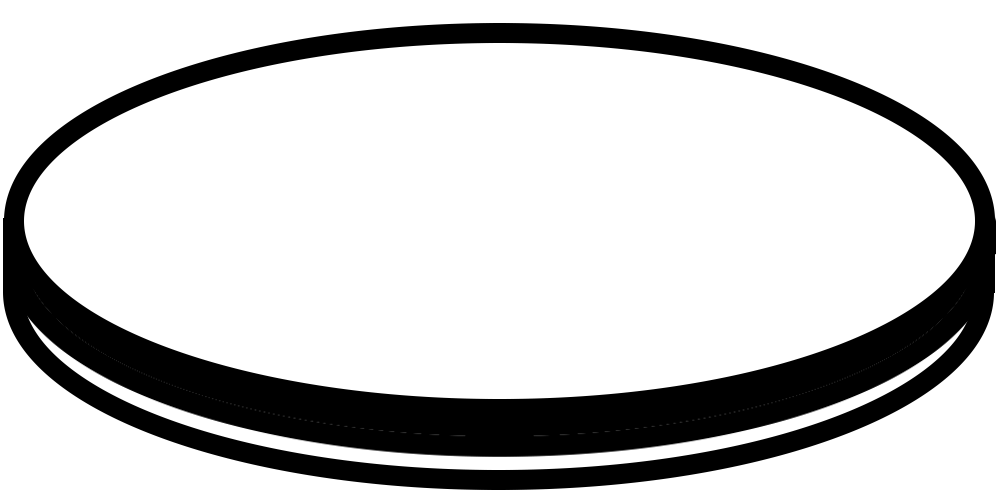
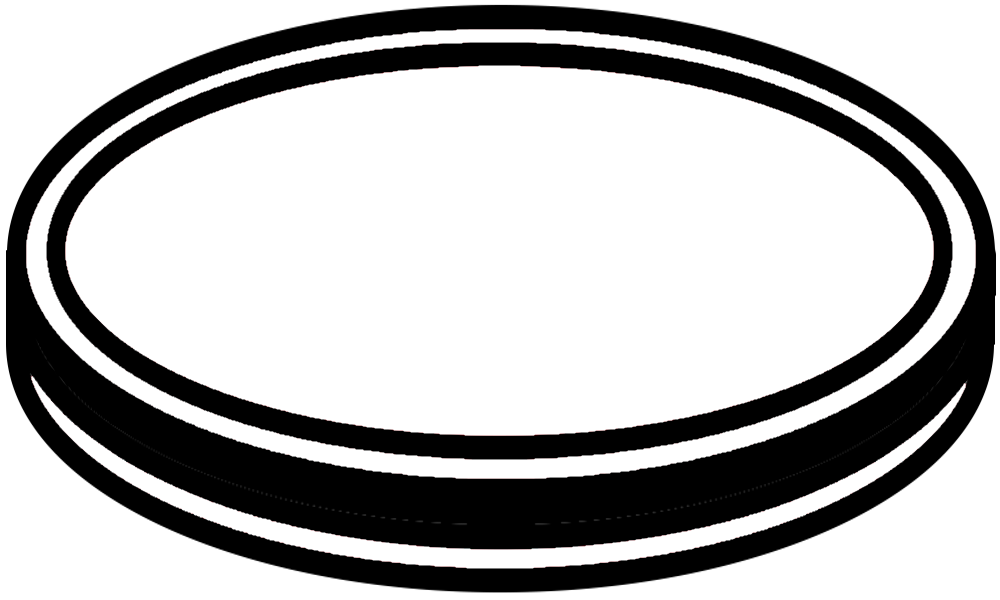
fixed an infinite loop error, but now sometimes the chips just disappear after dragging

diff --git a/src/main/java/com/example/blackjack2/Chip.java b/src/main/java/com/example/blackjack2/Chip.java
@@ -10,8 +10,8 @@ public class Chip {
     public Chip(int id, int value, int x, int y, Chip bottomChip) {
         this.id = id;
         this.value = value;
-        this.width = 60;
-        this.height = 30;
+        this.width = 100;
+        this.height = 60;
         this.bottomChip = bottomChip;
         this.topChip = null;
 
@@ -101,12 +101,12 @@ public class Chip {
     }
 
     public boolean contains(int x, int y) {
-        if (topChip != null) {
-            System.out.println(this.id);
-            if (topChip.contains(x, y)) {
-                return false;
-            }
-        }
+//        if (topChip != null) {
+//            System.out.println(this.id);
+//            if (topChip.contains(x, y)) {
+//                return false;
+//            }
+//        }
         return x >= this.x && x <= this.x + width &&
                     y >= this.y && y <= this.y + height;
     }
